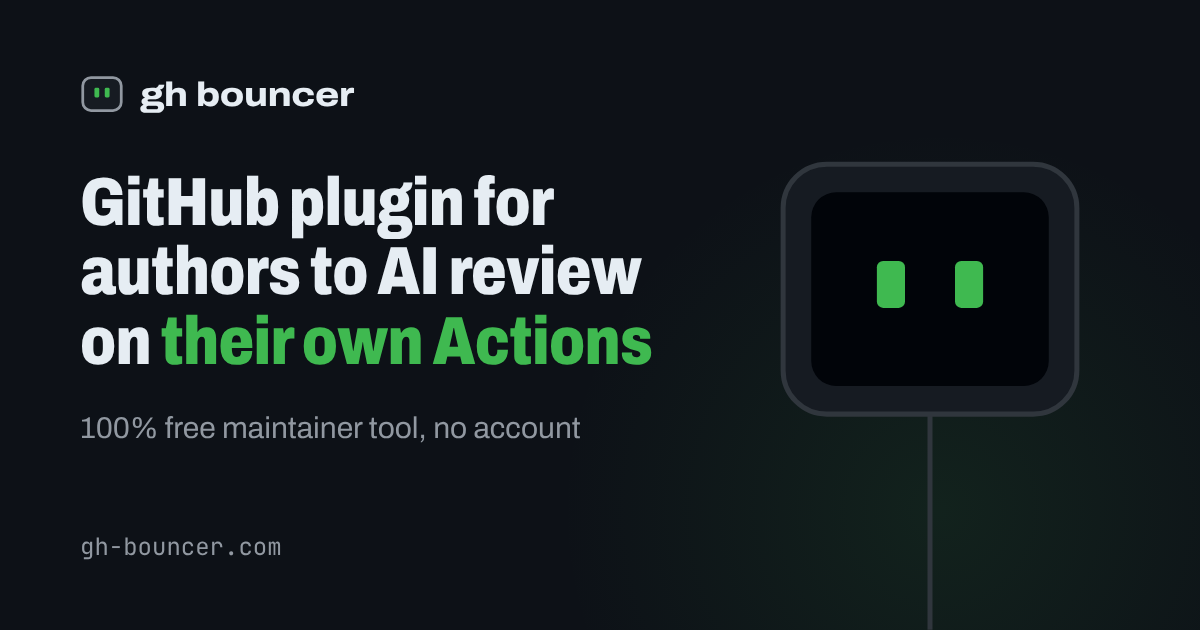
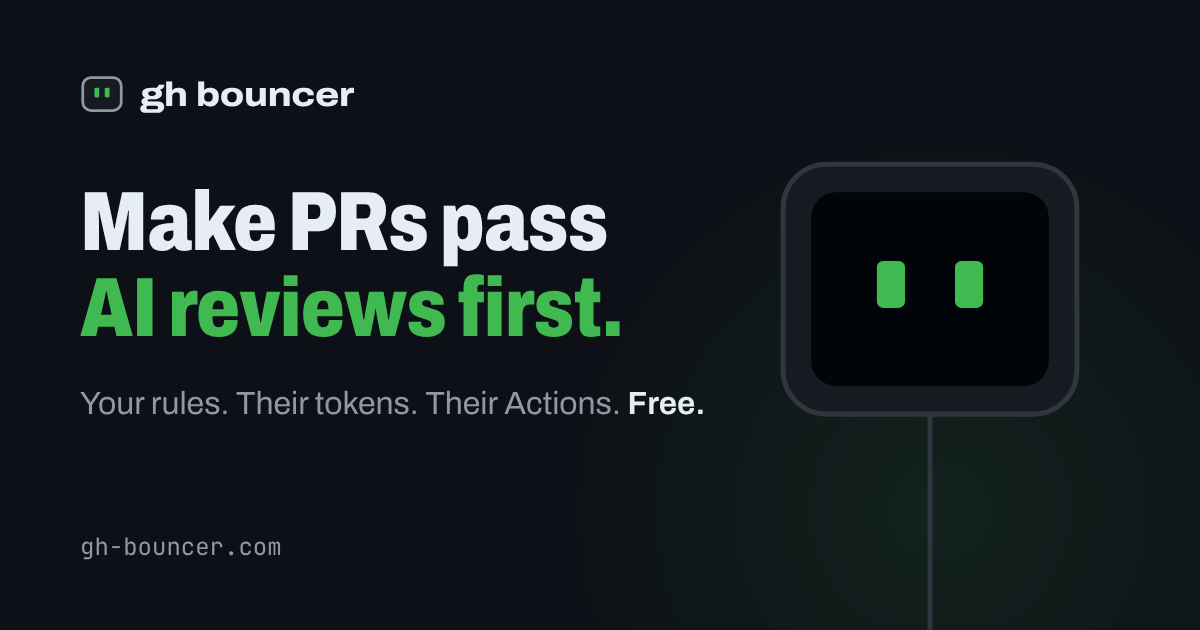
OG image: new headline

Changed region(s): [[0.0617, 0.2714, 0.5858, 0.6937]]

diff --git a/index.html b/index.html
@@ -6,16 +6,16 @@
 <title>gh bouncer</title>
 <meta name="description" content="Outside pull requests get reviewed by the contributor's own AI, in their own GitHub Actions, before they reach you. No account, no server, two public repos.">
 <meta property="og:title" content="gh bouncer">
-<meta property="og:description" content="GitHub plugin for authors to AI review on their own Actions. Outside pull requests are reviewed by the contributor's own AI before they reach you.">
+<meta property="og:description" content="Make PRs pass AI reviews first. Your rules. Their tokens. Their Actions. Free.">
 <meta property="og:url" content="https://gh-bouncer.com">
 <meta property="og:type" content="website">
 <meta property="og:image" content="https://gh-bouncer.com/og.png">
 <meta property="og:image:width" content="1200">
 <meta property="og:image:height" content="630">
-<meta property="og:image:alt" content="gh bouncer: GitHub plugin for authors to AI review on their own Actions">
+<meta property="og:image:alt" content="gh bouncer: Make PRs pass AI reviews first. Your rules. Their tokens. Their Actions. Free.">
 <meta name="twitter:card" content="summary_large_image">
 <meta name="twitter:title" content="gh bouncer">
-<meta name="twitter:description" content="GitHub plugin for authors to AI review on their own Actions.">
+<meta name="twitter:description" content="Make PRs pass AI reviews first. Your rules. Their tokens. Their Actions. Free.">
 <meta name="twitter:image" content="https://gh-bouncer.com/og.png">
 <meta name="theme-color" content="#0d1117">
 <link rel="canonical" href="https://gh-bouncer.com/">
